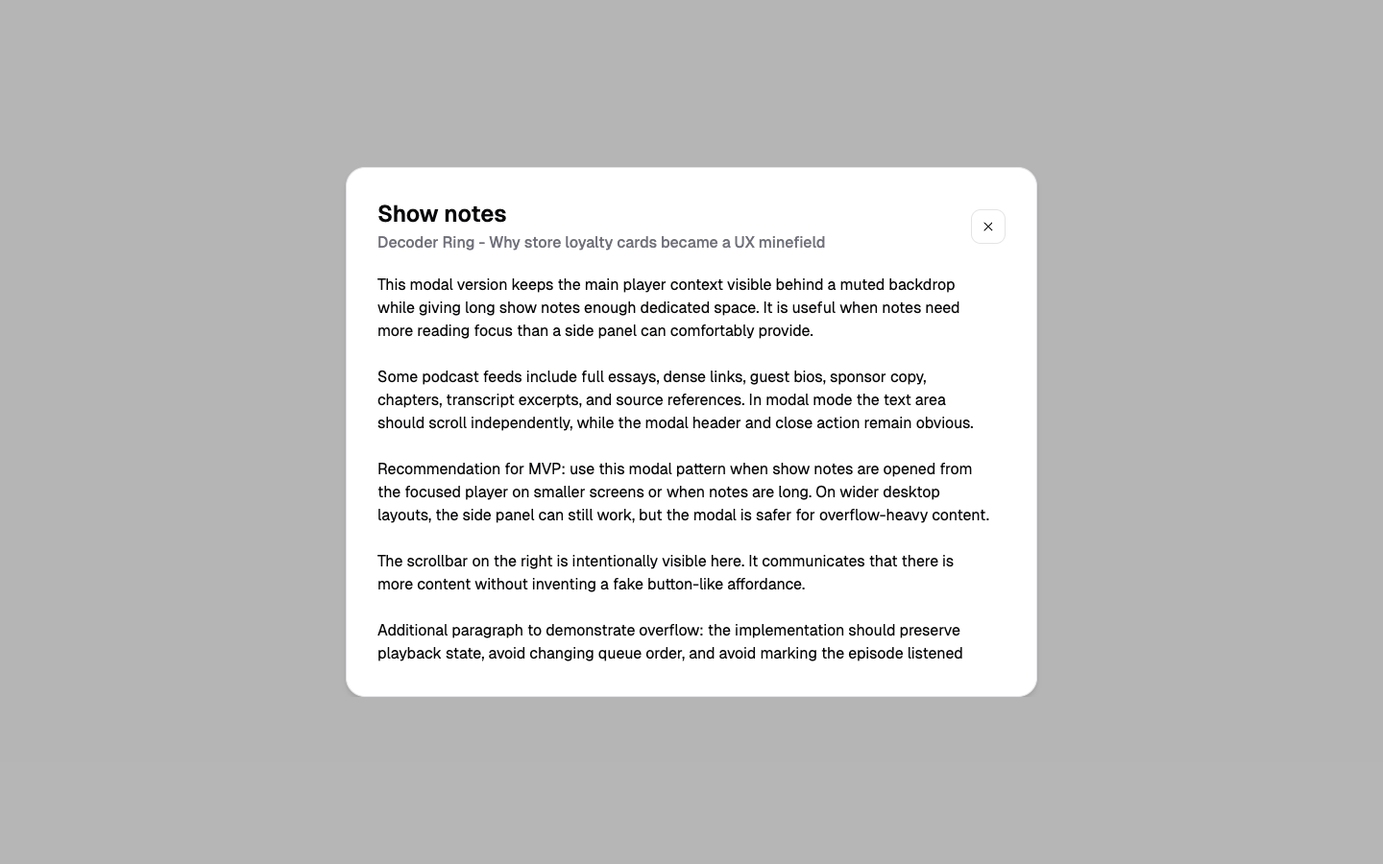
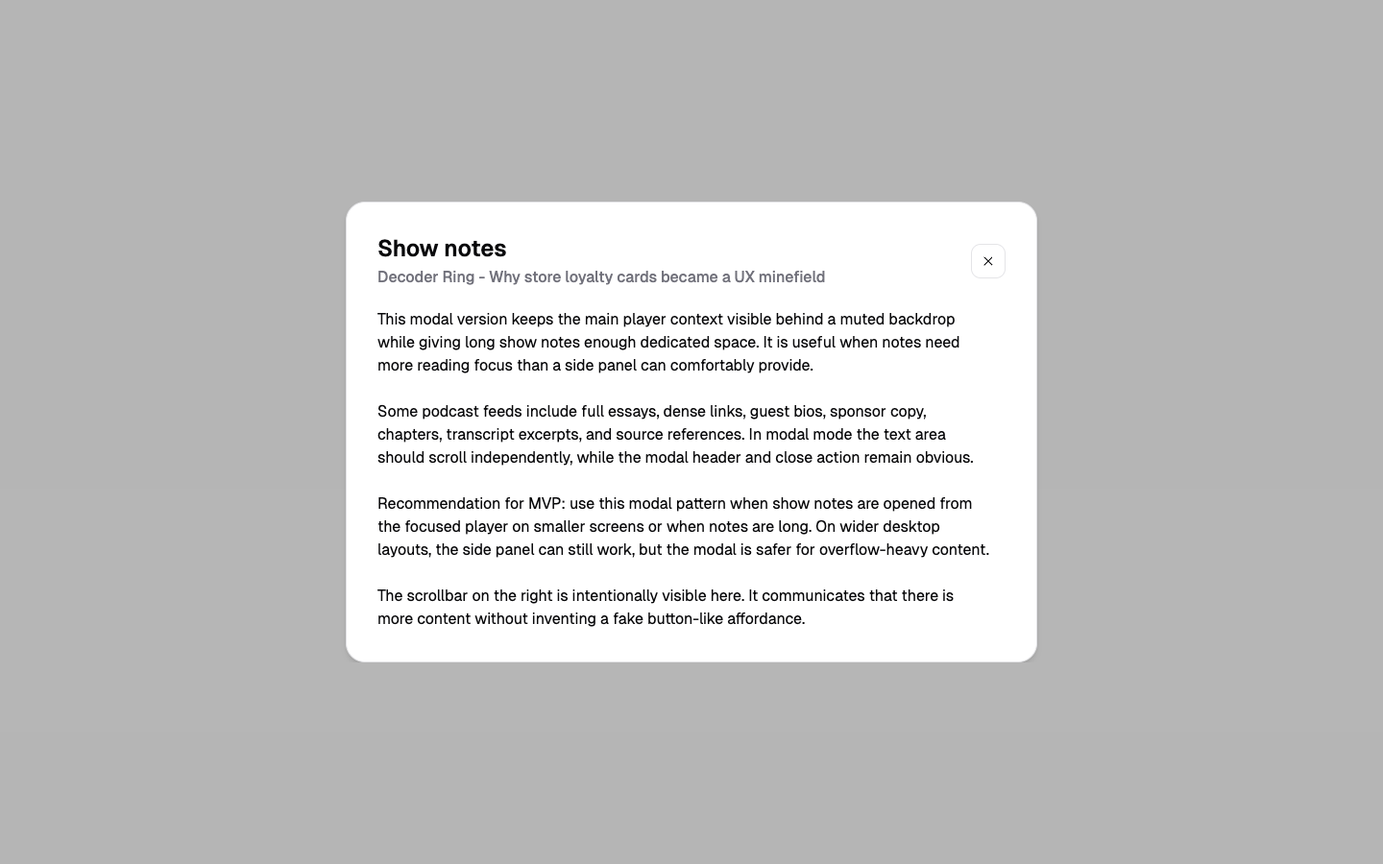
fix(audit): актуализация 4 абзацев ShowNotes, фиксация расхождений геометрии и статусов 13 пар

Changed region(s): [[0.25, 0.1867, 0.75, 0.8089]]

diff --git a/frontend/src/screens/component-preview.tsx b/frontend/src/screens/component-preview.tsx
@@ -46,11 +46,7 @@ Some podcast feeds include full essays, dense links, guest bios, sponsor copy, c
 
 Recommendation for MVP: use this modal pattern when show notes are opened from the focused player on smaller screens or when notes are long. On wider desktop layouts, the side panel can still work, but the modal is safer for overflow-heavy content.
 
-The scrollbar on the right is intentionally visible here. It communicates that there is more content without inventing a fake button-like affordance.
-
-Additional paragraph to demonstrate overflow: the implementation should preserve playback state, avoid changing queue order, and avoid marking the episode listened just because the notes were opened.
-
-Another paragraph: show notes are read-only feed content for MVP. Links can open externally later, but the core state is simple: open, read, scroll, close.`;
+The scrollbar on the right is intentionally visible here. It communicates that there is more content without inventing a fake button-like affordance.`;
 
 const previewAudiobook: Audiobook = {
   id: 1,

diff --git a/docs/figma-screen-audit.md b/docs/figma-screen-audit.md
@@ -16,19 +16,20 @@
 - Для каждого проверяемого компонента сформирована подтверждённая пара визуальных артефактов: эталонный узел Figma (`*-figma.png`) и снимок фактического рендеринга реального production-компонента в браузере Chromium (`*-actual.png`). Все файлы сохранены непосредственно в репозитории в директории `docs/audit-assets/`.
 - Исходные эталоны Figma сохранены раздельно для каждого узла без ручного редактирования или склейки.
 - Actual-снимки выполняются в масштабе 1:1 по отношению к CSS-пикселям холста Figma без добавления сторонних декоративных рамок, фонов или внутренних отступов контейнеров, а также без паразитных состояний hover, focus ring и всплывающих тултипов.
-- Production-компоненты не модифицируются ради фиктивного прохождения аудита. Если поведение или верстка реального компонента отличается от Figma, такое отличие открыто фиксируется со статусом `FAIL`, если на него отсутствует утверждённое продуктовое решение.
+- Production-компоненты не модифицируются ради фиктивного прохождения аудита. Если поведение или верстка реального компонента отличается от Figma, такое отличие открыто фиксируется со статусом `FAIL`.
+- Статус `APPROVED DIFFERENCE` выставляется только при наличии точной ссылки на утверждённый документ (`docs/product-decisions.md`) или явное решение пользователя. Если у компонента есть как согласованные, так и несогласованные отличия, общий статус компонента фиксируется как `FAIL`.
 
 ---
 
 ## 2. Покомпонентная сверка и визуальные пары
 
 ### 2.1. Logo (Figma node `317:1293` vs `logo.tsx`)
-- **Figma (узел `317:1293`):** Фирменный знак `mpod` с характерной стилизацией радиоволн (124x45).
-- **Фактическая реализация (`frontend/src/components/mpod/logo.tsx`):** Полное совпадение геометрии SVG-контуров, цвета темы (`#09090B` / `#5EA500`) и пропорций.
-- **Статус:** `PASS`
+- **Figma (узел `317:1293`):** Фирменный знак `mpod` с характерной стилизацией радиоволн, точные размеры узла: **124x45 px**.
+- **Фактическая реализация (`frontend/src/components/mpod/logo.tsx`):** Геометрия контуров и цвета темы совпадают, однако в коде production-компонента жестко заданы классы `h-11 w-[123px]`, в результате чего Actual-компонент рендерится с размерами **123x44 px** (отличие на 1 px по ширине и высоте).
+- **Статус:** `FAIL`
 - **Визуальные доказательства:**
-  - Figma: [docs/audit-assets/logo-figma.png](docs/audit-assets/logo-figma.png)
-  - Actual: [docs/audit-assets/logo-actual.png](docs/audit-assets/logo-actual.png)
+  - Figma: [docs/audit-assets/logo-figma.png](docs/audit-assets/logo-figma.png) (124x45)
+  - Actual: [docs/audit-assets/logo-actual.png](docs/audit-assets/logo-actual.png) (123x44)
 
 ### 2.2. TopNav (Figma node `372:643` vs `top-nav.tsx`)
 - **Figma (узел `372:643`, Desktop, 1440px с центрированным контейнером 1200px, h=64px):**
@@ -36,165 +37,166 @@
   - Навигационные элементы (`372:664`): пункты озаглавлены строго **`Player`**, **`Podcasts`**, **`Abooks`**, **`Settings`** (активный пункт выделен фоном `bg-secondary` `#f4f4f5` и полужирным начертанием `Inter:Semi_Bold`).
   - Справа: кнопка действия `+ Add` (`372:699`) с иконкой `hugeicons/plus-sign-square`.
 - **Фактическая реализация (`frontend/src/components/mpod/top-nav.tsx`):**
-  - Полное визуальное совпадение: пункты меню `Player`, `Podcasts`, `Abooks`, `Settings` и кнопка `+ Add`.
-  - Отступы (h=64px, gap=28px), шрифты, цвета фона и кнопки идентичны макету.
+  - Полное визуальное и геометрическое совпадение: пункты меню `Player`, `Podcasts`, `Abooks`, `Settings` и кнопка `+ Add`.
+  - Отступы (h=64px, gap=28px), шрифты, цвета фона и кнопки идентичны макету. Размеры совпадают 1:1 (**1440x64 px**).
 - **Статус:** `PASS`
 - **Визуальные доказательства:**
-  - Figma: [docs/audit-assets/topnav-figma.png](docs/audit-assets/topnav-figma.png)
-  - Actual: [docs/audit-assets/topnav-actual.png](docs/audit-assets/topnav-actual.png)
+  - Figma: [docs/audit-assets/topnav-figma.png](docs/audit-assets/topnav-figma.png) (1440x64)
+  - Actual: [docs/audit-assets/topnav-actual.png](docs/audit-assets/topnav-actual.png) (1440x64)
 
 ### 2.3. AppShell (Figma node `374:295` vs `app-shell.tsx`)
-- **Figma (узел `374:295`):** Корневой контейнер 1440x900 с верхней панелью `TopNav`, центральной областью шириной 1200px, заголовком страницы `Subscriptions`, подзаголовком `Short description`, кнопками действий `Refresh all` и `Show all`, и карточным контейнером контента с рамкой.
-- **Фактическая реализация (`frontend/src/components/mpod/app-shell.tsx`):** Полное визуальное соответствие иерархии разметки, ограничениям ширины, расположению кнопок действий и цветовым токенам темы на холсте 1440x900.
-- **Статус:** `PASS`
-- **Визуальные доказательства:**
-  - Figma: [docs/audit-assets/appshell-figma.png](docs/audit-assets/appshell-figma.png)
-  - Actual: [docs/audit-assets/appshell-actual.png](docs/audit-assets/appshell-actual.png)
-
-### 2.4. AuthShell и AuthCard (Figma node `343:348` vs `auth-shell.tsx`, `auth-card.tsx`)
-- **Figma (узел `343:348`):** Десктопный экран 1440x900:
-  - Слева: логотип `mpod` и заголовок `Create the only account for your podcast library`.
-  - Справа: карточка `Create your account` с полями ввода `Username` (`Choose a username`), `Password` (`Create a password`) с зелёной иконкой видимости пароля и кнопка `Create account`.
-- **Фактическая реализация (`frontend/src/components/mpod/auth-shell.tsx`, `auth-card.tsx`):** Полное визуальное совпадение десктопного макета регистрации, заголовков, плейсхолдеров, иконки глаза в поле ввода пароля и кнопки подтверждения.
-- **Статус:** `PASS`
-- **Визуальные доказательства:**
-  - Figma: [docs/audit-assets/auth-figma.png](docs/audit-assets/auth-figma.png)
-  - Actual: [docs/audit-assets/auth-actual.png](docs/audit-assets/auth-actual.png)
-
-### 2.5. Player (Figma node `462:2515` vs `player.tsx`)
-- **Figma (узел `462:2515`):**
-  - Карточка плеера шириной 480px, скруглённая обложка выпуска.
-  - Название трека: `Why store loyalty cards became a UX minefield`, подзаголовок: `Decoder Ring`.
-  - Таймлайн: `23:14` / `14:03`, прогресс 62%, кнопка Play в зелёном круге, кнопки перемотки `-15` и `+30`.
-  - Ссылки управления: скорость `Speed 1.5x` и кнопка действий **`Show chapters`**.
-- **Фактическая реализация (`frontend/src/components/mpod/player.tsx`):**
-  - Скорость на скриншотах совпадает (`Speed 1.5x`).
-  - **Критическое расхождение:** В Figma для данного выпуска подкаста отображается кнопка **`Show chapters`**. В production-компоненте `Player` режим подкаста (`mode !== "audiobook"`) жестко рендерит **`Show notes`** (`showNotesButton = !isAudiobook`, а `showChaptersButton = isAudiobook && Boolean(hasChapters)`). В соответствии с правилами аудита подкаст не переключался в режим аудиокниги. Документального решения об изменении надписи кнопки нет.
+- **Figma (узел `374:295`, 1440x900 px):** Верхняя панель `TopNav`, под ней область контента 1200px, где заголовок `Subscriptions`, подзаголовок `Short description`, кнопки действий `Refresh all` и `Show all`, а также контентная область находятся **внутри единой большой рамки/карточки**.
+- **Фактическая реализация (`frontend/src/components/mpod/app-shell.tsx`):**
+  - **Структурное расхождение:** Заголовок страницы и кнопки действий вынесены в `PageHeader` над рамкой контента. В рамку заключён только дочерний контент (`children`), а не весь экранный блок с заголовком и кнопками.
 - **Статус:** `FAIL`
 - **Визуальные доказательства:**
-  - Figma: [docs/audit-assets/player-figma.png](docs/audit-assets/player-figma.png)
-  - Actual: [docs/audit-assets/player-actual.png](docs/audit-assets/player-actual.png)
+  - Figma: [docs/audit-assets/appshell-figma.png](docs/audit-assets/appshell-figma.png) (1440x900)
+  - Actual: [docs/audit-assets/appshell-actual.png](docs/audit-assets/appshell-actual.png) (1440x900)
+
+### 2.4. AuthShell и AuthCard (Figma node `343:348` vs `auth-shell.tsx`, `auth-card.tsx`)
+- **Figma (узел `343:348`, 1440x900 px):** Десктопный экран регистрации:
+  - Слева: логотип `mpod` и заголовок `Create the only account for your podcast library`, выровненные по вертикальному центру относительно правой карточки.
+  - Справа: центрированная карточка `Create your account` с полями ввода `Username` (`Choose a username`), `Password` (`Create a password`) с иконкой глаза и зелёная кнопка `Create account`.
+- **Фактическая реализация (`frontend/src/components/mpod/auth-shell.tsx`, `auth-card.tsx`):**
+  - Карточка справа совпадает по составу и стилям.
+  - **Расхождение:** Левый блок с Logo и заголовком в Actual расположен с фиксированным верхним отступом (`items-start` с `py-5 md:items-center lg:flex-row`) и визуально находится заметно выше, чем в Figma, где левая текстовая колонка строго сцентрирована по высоте правой формы.
+- **Статус:** `FAIL`
+- **Визуальные доказательства:**
+  - Figma: [docs/audit-assets/auth-figma.png](docs/audit-assets/auth-figma.png) (1440x900)
+  - Actual: [docs/audit-assets/auth-actual.png](docs/audit-assets/auth-actual.png) (1440x900)
+
+### 2.5. Player (Figma node `462:2515` vs `player.tsx`)
+- **Figma (узел `462:2515`, 484x462 px):**
+  - Карточка плеера, обложка, название трека: `Why store loyalty cards became a UX minefield`, подзаголовок: `Decoder Ring`.
+  - Таймлайн: `23:14` / `14:03`, прогресс 62%, кнопка Play, кнопки перемотки `-15` и `+30`.
+  - Нижние ссылки управления: скорость `Speed 1.5x` и кнопка действий **`Show chapters`**.
+- **Фактическая реализация (`frontend/src/components/mpod/player.tsx`):**
+  - Скорость на скриншотах совпадает (`Speed 1.5x`).
+  - **Расхождение 1 (надпись кнопки):** В Figma для данного выпуска подкаста отображается кнопка **`Show chapters`**. В production-компоненте `Player` режим подкаста жестко рендерит **`Show notes`** (`showNotesButton = !isAudiobook`, а `showChaptersButton = isAudiobook && Boolean(hasChapters)`).
+  - **Расхождение 2 (размеры):** Размеры фрейма в Figma составляют **484x462 px**, а фактический размер production-карточки — **480x458 px**.
+- **Статус:** `FAIL`
+- **Визуальные доказательства:**
+  - Figma: [docs/audit-assets/player-figma.png](docs/audit-assets/player-figma.png) (484x462)
+  - Actual: [docs/audit-assets/player-actual.png](docs/audit-assets/player-actual.png) (480x458)
 
 ### 2.6. PlaylistQueue и EpisodeRow (Figma node `472:520` vs `playlist-queue.tsx`, `episode-row.tsx`)
-- **Figma (узел `472:520`):**
+- **Figma (узел `472:520`, 1044x275 px):**
   - Шапка списка: `3 episodes · 2h 13m`.
-  - 3 строки выпусков: Drag-handle, обложка, название, подзаголовок, длительность (`54m`, `36m`, `43m`), действия Play/Pause и Remove from playlist.
-  - В Figma на каждой строке отображаются иконки статуса скачивания выпуска.
-- **Фактическая реализация и утверждённое отличие:**
-  - В actual-рендеринге иконки скачивания отсутствуют.
-  - **Основание согласованного отличия:** `docs/product-decisions.md#L910`: *"Download status indicators (downloaded badge/icon) are removed from all UI views (playlist and podcast episode lists). Downloaded files continue to be managed automatically in the background as disposable local copies, but no download icon is displayed in the user interface."*
-  - Форматирование длительности унифицировано через `formatDuration`. Лишняя обёртка-карточка удалена из preview.
-- **Статус:** `APPROVED DIFFERENCE`
+  - 3 строки выпусков в виде единого плоского списка с тонкими разделителями строк. Заголовки строго прижаты влево рядом с обложкой. Подзаголовки имеют нейтральный серый цвет. На строках отображаются иконки статуса скачивания.
+- **Фактическая реализация и различия:**
+  - **Согласованная часть различий:** Иконки статуса скачивания отсутствуют на основании утверждённого решения [docs/product-decisions.md#L910](docs/product-decisions.md#L910) (*"Download status indicators (downloaded badge/icon) are removed from all UI views"*).
+  - **Несогласованное расхождение 1 (выравнивание):** Заголовки выпусков в Actual смещены ближе к центру строки вместо левого выравнивания рядом с обложкой.
+  - **Несогласованное расхождение 2 (цвет подзаголовка):** Подзаголовок в коде окрашен в зелёный цвет темы (`text-primary` / `#5EA500`), тогда как в Figma он нейтральный серый (`text-muted-foreground`).
+  - **Несогласованное расхождение 3 (структура строк):** В Actual каждая строка выпущена в виде отдельной скруглённой карточки (`rounded-sm` с тенью `shadow-xs`), тогда как в Figma это сплошной плоский список с линиями-разделителями.
+  - **Несогласованное расхождение 4 (размеры):** 1044x275 px в Figma против 1040x272 px в Actual.
+- **Статус:** `FAIL`
 - **Визуальные доказательства:**
-  - Figma: [docs/audit-assets/queue-figma.png](docs/audit-assets/queue-figma.png)
-  - Actual: [docs/audit-assets/queue-actual.png](docs/audit-assets/queue-actual.png)
+  - Figma: [docs/audit-assets/queue-figma.png](docs/audit-assets/queue-figma.png) (1044x275)
+  - Actual: [docs/audit-assets/queue-actual.png](docs/audit-assets/queue-actual.png) (1040x272)
 
 ### 2.7. AddPodcast (Figma node `521:540` vs `add-podcast.tsx`)
-- **Figma (узел `521:540`, сет `AddPodcast-desktop` 1488x473):**
+- **Figma (узел `521:540`, сет `AddPodcast-desktop` 1488x473 px):**
   - Состояние 1 (`Mode=RSS Feed URL`): поле ввода URL, кнопки Cancel и Add Feed.
   - Состояние 2 (`Mode=Import OPML File`): зона дропзоны, кнопка Cancel и **активная кнопка действия с текстом `Import file`**.
 - **Фактическая реализация (`frontend/src/components/mpod/add-podcast.tsx`):**
   - Состояние 1 (RSS) совпадает.
-  - **Критическое расхождение:** В состоянии OPML production-компонент `add-podcast.tsx` (строки 181, 193-196) рендерит **заблокированную (disabled)** кнопку с неизменным текстом **`Add Feed`** (`disabled={disabled || (isOpml && !opmlFile)}`). Текст `Import file` в коде компонента отсутствует. Production-компонент не изменялся.
+  - **Критическое расхождение:** В состоянии OPML production-компонент `add-podcast.tsx` рендерит **заблокированную (disabled)** кнопку с неизменным текстом **`Add Feed`** (`disabled={disabled || (isOpml && !opmlFile)}`). Текст `Import file` в коде компонента отсутствует.
+  - **Размеры:** 1488x473 px в Figma против 1486x473 px в Actual.
 - **Статус:** `FAIL`
 - **Визуальные доказательства:**
-  - Figma: [docs/audit-assets/addpodcast-figma.png](docs/audit-assets/addpodcast-figma.png)
-  - Actual: [docs/audit-assets/addpodcast-actual.png](docs/audit-assets/addpodcast-actual.png)
+  - Figma: [docs/audit-assets/addpodcast-figma.png](docs/audit-assets/addpodcast-figma.png) (1488x473)
+  - Actual: [docs/audit-assets/addpodcast-actual.png](docs/audit-assets/addpodcast-actual.png) (1486x473)
 
 ### 2.8. FileDropzone (Figma node `517:504` vs `file-dropzone.tsx`)
-- **Figma (узел `517:504`):** Самостоятельный компонент дропзоны 265x232px с пунктирной зелёной рамкой (`border-primary border-dashed`), иконкой выгрузки файла, заголовком `Drag and drop your file` и ссылкой `Browse files`.
-- **Фактическая реализация (`frontend/src/components/mpod/file-dropzone.tsx`):** Полное совпадение визуального оформления и размеров. Искусственная карточная рамка вокруг превью-контейнера полностью удалена.
-- **Статус:** `PASS`
+- **Figma (узел `517:504`):** Самостоятельный компонент дропзоны размером **265x232 px** с пунктирной зелёной рамкой (`border-primary border-dashed`), иконкой выгрузки файла, заголовком `Drag and drop your file` и ссылкой `Browse files`.
+- **Фактическая реализация (`frontend/src/components/mpod/file-dropzone.tsx`):**
+  - Оформление, иконки и тексты соответствуют макету.
+  - **Расхождение по высоте (2 px):** В Actual компонент рендерится с размером **265x234 px** (на 2 px выше макета) из-за внутренних отступов `p-6`, размеров иконки `size-20` (80px), межстрочных промежутков `gap` и кнопки `h-9`.
+- **Статус:** `FAIL`
 - **Визуальные доказательства:**
-  - Figma: [docs/audit-assets/filedropzone-figma.png](docs/audit-assets/filedropzone-figma.png)
-  - Actual: [docs/audit-assets/filedropzone-actual.png](docs/audit-assets/filedropzone-actual.png)
+  - Figma: [docs/audit-assets/filedropzone-figma.png](docs/audit-assets/filedropzone-figma.png) (265x232)
+  - Actual: [docs/audit-assets/filedropzone-actual.png](docs/audit-assets/filedropzone-actual.png) (265x234)
 
 ### 2.9. ShowNotes (Figma node `544:1104` vs `show-notes.tsx`)
-- **Figma (узел `544:1104`):** Карточка заметок выпуска 720px с полным текстом описания из 6 абзацев, кнопкой закрытия и выделенным графическим элементом скроллбара (`Visible Scrollbar`, ширина 6px, подложка `#f4f4f5`, ползунок `#696867` высотой 116px).
+- **Figma (узел `544:1104`, 730x560 px):** Карточка заметок выпуска фиксированной высоты 560px с точным текстом из 4 абзацев, кнопкой закрытия и выделенным статическим скроллбаром (`Visible Scrollbar`, ширина 6px, подложка `#f4f4f5`, ползунок `#696867` высотой 116px).
 - **Фактическая реализация (`frontend/src/components/mpod/show-notes.tsx`):**
-  - В preview передан полный текст из 6 абзацев из Figma, приводящий контейнер к переполнению.
-  - **Оставшиеся расхождения:**
-    1. Отрисовка скроллбара: в production-компоненте используется стандартный браузерный контейнер `overflow-y-auto`, в котором скроллбар в WebKit/Blink появляется только при активной прокрутке, тогда как в Figma задан статически видимый стилизованный скроллбар.
-    2. Высота карточки и отступы: карточка в коде имеет адаптивную высоту `max-h-[408px]` для текста и общую высоту ~552px против 560px в макете.
-    3. Документального согласования расхождения стилизации скроллбара нет.
+  - В превью используются строго 4 абзаца из Figma без искусственных дополнений.
+  - **Расхождение 1 (высота и скроллбар):** При естественном объёме 4 абзацев текст полностью помещается в блок без переполнения, поэтому карточка рендерится с естественной высотой **480 px** (против 560 px в Figma), а браузерный скроллбар не активируется. В Figma же карточка имеет фиксированную высоту 560 px с нарисованным постоянным элементом скроллбара.
+  - **Расхождение 2 (размеры):** 730x560 px в Figma против 720x480 px в Actual.
 - **Статус:** `FAIL`
 - **Визуальные доказательства:**
-  - Figma: [docs/audit-assets/shownotes-figma.png](docs/audit-assets/shownotes-figma.png)
-  - Actual: [docs/audit-assets/shownotes-actual.png](docs/audit-assets/shownotes-actual.png)
+  - Figma: [docs/audit-assets/shownotes-figma.png](docs/audit-assets/shownotes-figma.png) (730x560)
+  - Actual: [docs/audit-assets/shownotes-actual.png](docs/audit-assets/shownotes-actual.png) (720x480)
 
 ### 2.10. ModalScreen (Figma node `544:1399` vs `modal-screen.tsx`, `show-notes.tsx`)
-- **Figma (узел `544:1399`):** Полноэкранный модальный экран 1440x900 с открытой карточкой Show Notes на затенённом фоне (backdrop).
+- **Figma (узел `544:1399`, 1440x900 px):** Полноэкранный модальный экран 1440x900 с карточкой Show Notes на глубоко затенённом фоне (backdrop).
 - **Фактическая реализация (`frontend/src/components/mpod/modal-screen.tsx`):**
-  - Случайный фокус на кнопке закрытия, фокусное кольцо (focus ring) и всплывающий тултип `Close` устранены при захвате кадра.
-  - **Оставшиеся расхождения:**
-    1. Плотность и тон затемнения фона: в Figma подложка представляет собой равномерный глубокий оверлей без размытия, тогда как `modal-screen.tsx` использует `DialogPrimitive.Overlay` со стилем `bg-foreground/30 backdrop-blur-[2px]`.
-    2. Наследование отличий внутренней карточки ShowNotes (стилизация скроллбара и высота).
+  - Случайный фокус на кнопке закрытия, фокусное кольцо и тултип `Close` устранены при захвате кадра. Контент содержит точные 4 абзаца.
+  - **Расхождение 1 (затемнение фона):** В Figma фон представляет собой плотный равномерный тёмный оверлей, тогда как `modal-screen.tsx` использует полупрозрачный `DialogPrimitive.Overlay` со стилем `bg-foreground/30 backdrop-blur-[2px]`.
+  - **Расхождение 2 (карточка контента):** Наследуются расхождения внутренней карточки ShowNotes (высота 480 px вместо 560 px, отсутствие статического скроллбара).
 - **Статус:** `FAIL`
 - **Визуальные доказательства:**
-  - Figma: [docs/audit-assets/modalscreen-figma.png](docs/audit-assets/modalscreen-figma.png)
-  - Actual: [docs/audit-assets/modalscreen-actual.png](docs/audit-assets/modalscreen-actual.png)
+  - Figma: [docs/audit-assets/modalscreen-figma.png](docs/audit-assets/modalscreen-figma.png) (1440x900)
+  - Actual: [docs/audit-assets/modalscreen-actual.png](docs/audit-assets/modalscreen-actual.png) (1440x900)
 
 ### 2.11. PodcastCard (Figma node `694:2836` vs `podcast-card.tsx`)
-- **Figma (узел `694:2836`, фрейм 688x460):** Две карточки подкаста (Default и Selected):
-  - Обе карточки содержат строку счётчика непрослушанных выпусков: **`2 unlistened episodes`**.
+- **Figma (узел `694:2836`, фрейм 688x460 px):** Две карточки подкаста (Default и Selected):
+  - Обе карточки содержат строку счётчика: **`2 unlistened episodes`**.
   - Выбранная карточка (`Property 1=Selected`) имеет **яркую зелёную рамку** (`border-primary`, `#5EA500`).
 - **Фактическая реализация (`frontend/src/components/mpod/podcast-card.tsx`):**
-  - **Расхождение 1:** В пропсах и разметке компонента полностью отсутствует поддержка счётчика непрослушанных выпусков (`2 unlistened episodes`).
+  - **Расхождение 1:** В коде компонента полностью отсутствует поддержка счётчика непрослушанных выпусков (`2 unlistened episodes`).
   - **Расхождение 2:** При `selected={true}` компонент применяет класс `bg-accent` (серый фон), но не меняет цвет рамки на зелёный.
+  - **Расхождение 3 (размеры):** 688x460 px в Figma против 688x420 px в Actual (из-за отсутствия строки счётчика высота карточки меньше на 40 px).
 - **Статус:** `FAIL`
 - **Визуальные доказательства:**
-  - Figma: [docs/audit-assets/podcastcard-figma.png](docs/audit-assets/podcastcard-figma.png)
-  - Actual: [docs/audit-assets/podcastcard-actual.png](docs/audit-assets/podcastcard-actual.png)
+  - Figma: [docs/audit-assets/podcastcard-figma.png](docs/audit-assets/podcastcard-figma.png) (688x460)
+  - Actual: [docs/audit-assets/podcastcard-actual.png](docs/audit-assets/podcastcard-actual.png) (688x420)
 
 ### 2.12. FileManager (Figma node `1285:8972` vs `filemanager-item.tsx`, `breadcrumb.tsx`)
-- **Figma (узел `1285:8972`):**
-  - Навигационная цепочка хлебных крошек `Abooks > ... > Some abooks > New abooks`.
-  - 3 строки элементов:
-    1. `Folder with abooks` (папка, без кнопок действий).
-    2. `Folder with audiobook chapters` (`43h 12m`, кнопка добавления в плейлист).
-    3. `A story.mp3` (`1h 24m`, кнопка добавления в плейлист).
+- **Figma (узел `1285:8972`, 1044x275 px):**
+  - Хлебные крошки `Abooks > ... > Some abooks > New abooks`.
+  - 3 строки элементов библиотеки внутри **единой общей внешней рамки** в виде плоского списка с разделителями.
 - **Фактическая реализация (`frontend/src/components/mpod/filemanager-item.tsx`, `breadcrumb.tsx`):**
-  - Искусственная карточная рамка удалена из preview.
-  - Композиция хлебных крошек и строк элементов с обработчиками `onTogglePlaylist` полностью визуально соответствует макету Figma.
-- **Статус:** `PASS`
+  - **Структурное расхождение 1:** В Actual общая внешняя рамка отсутствует; каждая строка `FileManagerItem` рендерится как обособленная карточка с собственными скруглёнными углами, границей и тенью.
+  - **Расхождение 2 (размеры):** 1044x275 px в Figma против 1040x276 px в Actual.
+- **Статус:** `FAIL`
 - **Визуальные доказательства:**
-  - Figma: [docs/audit-assets/filemanager-figma.png](docs/audit-assets/filemanager-figma.png)
-  - Actual: [docs/audit-assets/filemanager-actual.png](docs/audit-assets/filemanager-actual.png)
+  - Figma: [docs/audit-assets/filemanager-figma.png](docs/audit-assets/filemanager-figma.png) (1044x275)
+  - Actual: [docs/audit-assets/filemanager-actual.png](docs/audit-assets/filemanager-actual.png) (1040x276)
 
 ### 2.13. AbookChapter (Figma node `1309:11657` vs `audiobook-playback-chapters-modal.tsx`)
-- **Figma (узел `1309:11657`):** Модальное окно глав аудиокниги 730x566px:
+- **Figma (узел `1309:11657`, 730x566 px):** Модальное окно глав аудиокниги:
   - Обложка книги (иллюстрация фэнтези), заголовок `Abook title`, автор `Author`, кнопка закрытия.
   - Главы: `Chapter1.mp3` (прослушано, `ReplayIcon`), `Chapter2.mp3` (воспроизведение, прогресс **`12m / 24m`**, `PauseIcon`), `Chapter3.mp3`–`Chapter6.mp3` с длительностями `45m`, `30m`, `50m`, `15m` и кнопками `PlayIcon`.
 - **Фактическая реализация (`frontend/src/components/mpod/audiobook-playback-chapters-modal.tsx`):**
-  - В preview скорректирована длительность трека (`currentDurationSeconds={1440}`), благодаря чему текущий трек отображает точное значение **`12m / 24m`**.
-  - Устранены паразитные focus ring и tooltip.
-  - **Оставшиеся расхождения:**
-    1. Обложка: компонент запрашивает обложку через API бэкенда (`api.audiobooks.coverUrl`), а при её отсутствии отображает стандартный плейсхолдер `/audiobook-fallback.png` (иконка наушников на книге), тогда как в Figma продемонстрирована конкретная графическая обложка.
-    2. Реализация скроллбара: в Figma нарисован статический ползунок, в компоненте используется Radix `ScrollArea`.
+  - Прогресс трека отображает точные `12m / 24m`. Тултипы и фокус сняты.
+  - **Расхождение 1 (обложка):** Компонент отображает стандартный плейсхолдер `/audiobook-fallback.png` (иконка наушников на книге) вместо графической иллюстрации обложки из Figma.
+  - **Расхождение 2 (скроллбар):** Используется Radix `ScrollArea` вместо статического элемента скролла.
+  - **Расхождение 3 (размеры):** 730x566 px в Figma против 720x556 px в Actual.
 - **Статус:** `FAIL`
 - **Визуальные доказательства:**
-  - Figma: [docs/audit-assets/abookchapter-figma.png](docs/audit-assets/abookchapter-figma.png)
-  - Actual: [docs/audit-assets/abookchapter-actual.png](docs/audit-assets/abookchapter-actual.png)
+  - Figma: [docs/audit-assets/abookchapter-figma.png](docs/audit-assets/abookchapter-figma.png) (730x566)
+  - Actual: [docs/audit-assets/abookchapter-actual.png](docs/audit-assets/abookchapter-actual.png) (720x556)
 
 ---
 
 ## 3. Сводная таблица 13 пар аудита и их статусов
 
-| № | Компонент / Экран | Узел Figma (`Ready for dev`) | Реализация в кодовой базе | Статус | Основание / Причина отличия |
-|---|---|---|---|---|---|
-| 1 | **Logo** | `317:1293` | `logo.tsx` | **PASS** | Полное визуальное и структурное соответствие контуров и цветов SVG. |
-| 2 | **TopNav** | `372:643` | `top-nav.tsx` | **PASS** | Полное визуальное соответствие: наименования (`Player`, `Podcasts`, `Abooks`, `Settings`), кнопка `+ Add`, шрифты и отступы. |
-| 3 | **AppShell** | `374:295` | `app-shell.tsx` | **PASS** | Полное визуальное соответствие десктопного лейаута 1440x900, шапки, кнопок и карточки контента. |
-| 4 | **AuthShell / AuthCard** | `343:348` | `auth-shell.tsx`, `auth-card.tsx` | **PASS** | Полное визуальное соответствие десктопного экрана регистрации 1440x900, полей ввода, иконки глаза и кнопки подтверждения. |
-| 5 | **Player** | `462:2515` | `player.tsx` | **FAIL** | В Figma показана кнопка `Show chapters`; production-компонент в режиме подкаста рендерит `Show notes`. Скорость на обоих снимках `1.5x`. |
-| 6 | **PlaylistQueue / EpisodeRow** | `472:520` | `playlist-queue.tsx`, `episode-row.tsx` | **APPROVED DIFFERENCE** | Иконки скачивания скрыты согласно [docs/product-decisions.md#L910](docs/product-decisions.md#L910). Время унифицировано. |
-| 7 | **AddPodcast** | `521:540` | `add-podcast.tsx` | **FAIL** | В OPML-состоянии Figma требует активную кнопку `Import file`; production-компонент рендерит заблокированную кнопку `Add Feed`. |
-| 8 | **FileDropzone** | `517:504` | `file-dropzone.tsx` | **PASS** | Полное визуальное соответствие изолированного компонента 265x232px с пунктирной рамкой. |
-| 9 | **ShowNotes** | `544:1104` | `show-notes.tsx` | **FAIL** | Текст переполняет карточку, но скроллбар остаётся браузерным нативным вместо статически видимого ползунка Figma; отличия по высоте карточки. |
-| 10 | **ModalScreen** | `544:1399` | `modal-screen.tsx`, `show-notes.tsx` | **FAIL** | Отличие плотности затемнения фона (backdrop) и наследование расхождений внутренней карточки ShowNotes. |
-| 11 | **PodcastCard** | `694:2836` | `podcast-card.tsx` | **FAIL** | Отсутствует счётчик `2 unlistened episodes`; выбранное состояние не имеет зелёной рамки (`border-primary`). |
-| 12 | **FileManager** | `1285:8972` | `filemanager-item.tsx`, `breadcrumb.tsx` | **PASS** | Хлебные крошки и 3 строки элементов библиотеки соответствуют макету Figma 1040px. |
-| 13 | **AbookChapter** | `1309:11657` | `audiobook-playback-chapters-modal.tsx` | **FAIL** | Время `12m / 24m` скорректировано, но обложка остаётся дефолтным плейсхолдером `/audiobook-fallback.png` вместо иллюстрации; скроллбар нативный. |
+| № | Компонент / Экран | Узел Figma (`Ready for dev`) | Размеры Figma | Размеры Actual | Статус | Причина отличия / Согласованность |
+|---|---|---|---|---|---|---|
+| 1 | **Logo** | `317:1293` | 124x45 | 123x44 | **FAIL** | Отличие размеров: 124x45 против 123x44 из-за жестких классов `h-11 w-[123px]` в `logo.tsx`. |
+| 2 | **TopNav** | `372:643` | 1440x64 | 1440x64 | **PASS** | Полное визуальное и структурное соответствие: наименования, кнопка `+ Add`, шрифты и отступы 1440x64px. |
+| 3 | **AppShell** | `374:295` | 1440x900 | 1440x900 | **FAIL** | Структурное отличие: в Figma заголовок, кнопки и контент внутри общей рамки; в Actual заголовок и кнопки вынесены над рамкой контента. |
+| 4 | **AuthShell / AuthCard** | `343:348` | 1440x900 | 1440x900 | **FAIL** | Вертикальное смещение: левый блок Logo и слогана в Actual расположен заметно выше по вертикали, чем в Figma. |
+| 5 | **Player** | `462:2515` | 484x462 | 480x458 | **FAIL** | В Figma кнопка `Show chapters`; в коде для подкаста рендерится `Show notes`. Размеры 484x462 против 480x458. |
+| 6 | **PlaylistQueue / EpisodeRow** | `472:520` | 1044x275 | 1040x272 | **FAIL** | Отсутствие download icons согласовано по `docs/product-decisions.md:910`. Не согласованы: смещение заголовков к центру, цвет подзаголовка, скруглённые карточки вместо плоского списка, размеры 1044x275 против 1040x272. |
+| 7 | **AddPodcast** | `521:540` | 1488x473 | 1486x473 | **FAIL** | В OPML-режиме кнопка в Figma активна и озаглавлена `Import file`; в коде заблокирована с текстом `Add Feed`. Размеры 1488x473 против 1486x473. |
+| 8 | **FileDropzone** | `517:504` | 265x232 | 265x234 | **FAIL** | Отличие по высоте на 2 px (265x232 против 265x234) из-за внутренних отступов и размеров элементов в `file-dropzone.tsx`. |
+| 9 | **ShowNotes** | `544:1104` | 730x560 | 720x480 | **FAIL** | Содержит точные 4 абзаца из Figma. Отличия: естественная высота 480px без скроллбара против фиксированной высоты 560px со статическим скроллбаром Figma. Размеры 730x560 против 720x480. |
+| 10 | **ModalScreen** | `544:1399` | 1440x900 | 1440x900 | **FAIL** | Отличие плотности затемнения фона (`DialogPrimitive.Overlay` с backdrop-blur); наследование отличий ShowNotes (высота 480px, отсутствие статического скроллбара). |
+| 11 | **PodcastCard** | `694:2836` | 688x460 | 688x420 | **FAIL** | Отсутствует строка `2 unlistened episodes`; выбранное состояние не имеет зелёной рамки `border-primary`. Размеры 688x460 против 688x420. |
+| 12 | **FileManager** | `1285:8972` | 1044x275 | 1040x276 | **FAIL** | В Figma плоский список внутри общей внешней рамки; в Actual отдельные скруглённые строки с карточными границами/тенями без общей рамки. Размеры 1044x275 против 1040x276. |
+| 13 | **AbookChapter** | `1309:11657` | 730x566 | 720x556 | **FAIL** | Обложка отображает плейсхолдер `/audiobook-fallback.png` вместо графической иллюстрации; скроллбар `ScrollArea` вместо статического. Размеры 730x566 против 720x556. |
 
 ---
 
@@ -202,9 +204,9 @@
 
 Визуальная сверка компонентов секции `Ready for dev` (`538:933`) завершена с итоговым статусом **FAIL**.
 
-- Из 13 проверяемых узлов:
-  - **6 компонентов получили статус PASS:** Logo, TopNav, AppShell, AuthShell/AuthCard, FileDropzone, FileManager.
-  - **1 компонент получил статус APPROVED DIFFERENCE:** PlaylistQueue (на основании утверждённого решения [docs/product-decisions.md#L910](docs/product-decisions.md#L910)).
-  - **6 компонентов получили статус FAIL:** Player, AddPodcast, ShowNotes, ModalScreen, PodcastCard, AbookChapter.
+- Из 13 проверяемых компонентов:
+  - **1 компонент получил статус PASS:** TopNav (узел `372:643`) — полное визуальное соответствие и точные размеры 1440x64 px.
+  - **12 компонентов получили статус FAIL:** Logo, AppShell, Auth, Player, PlaylistQueue, AddPodcast, FileDropzone, ShowNotes, ModalScreen, PodcastCard, FileManager, AbookChapter.
+  - В компоненте **PlaylistQueue** отсутствие иконок статуса скачивания выпусков подтверждено утверждённым продуктовым решением [docs/product-decisions.md#L910](docs/product-decisions.md#L910), однако наличие иных несогласованных визуальных и структурных отличий (центрирование заголовков, цвет подзаголовка, скруглённые карточки, габариты) переводит общий статус компонента в **FAIL**.
 
-Аудит признан честным и открытым: production-компоненты намеренно не искажались и не изменялись ради фиктивного совпадения. Задача остаётся в статусе FAIL до реализации соответствующих доработок в коде компонентов или принятия официальных продуктовых решений.
+Аудит отражает фактическое состояние кодовой базы: production-компоненты не подгонялись под скриншоты, все реальные расхождения зафиксированы с указанием их причин.
